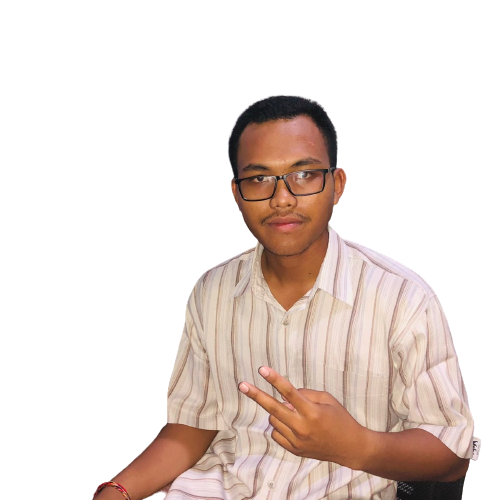
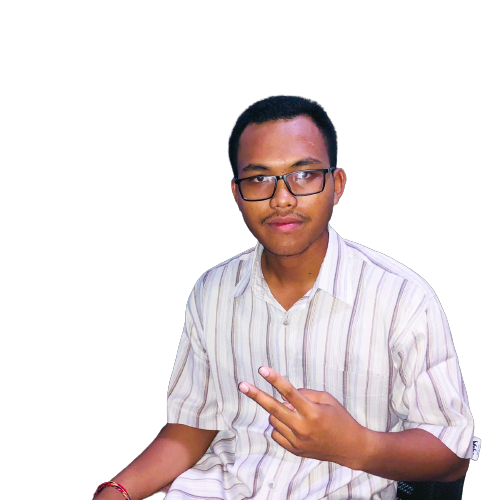
change profile picture part2

Changed region(s): [[0.21, 0.45, 0.96, 1.0], [0.51, 0.21, 0.69, 0.48]]

diff --git a/src/components/AboutComponent.vue b/src/components/AboutComponent.vue
@@ -2,14 +2,13 @@
   <v-container class="container" id="about">
     <div class="d-flex flex-column flex-md-row justify-center">
       <div class="mr-10">
-        <v-img width="350" src="@/assets/profile-danu-horizontal.jpeg"></v-img>
+        <v-img width="350" src="@/assets/my-profile-2.jpeg"></v-img>
       </div>
       <div>
         <h2 class="title-h2 mt-10 mt-md-0">About Me</h2>
         <p class="about-description">
           My name is Ida Putu Sucita Danuartha, and I'd want to introduce
-          myself. SMK Negeri 1 Denpasar Software Engineering is where I am
-          presently enrolled. Since starting vocational school, I've been
+          myself. I'm now a software engineering student at SMK Negeri 1 Denpasar. Since starting vocational school, I've been
           fascinated by the world of technology. There are so many things I can
           accomplish, and the rapid advancement of technology makes me even more
           determined to pursue my dream of being a web developer.

diff --git a/public/index.html b/public/index.html
@@ -5,7 +5,7 @@
     <meta charset="utf-8">
     <meta http-equiv="X-UA-Compatible" content="IE=edge">
     <meta name="viewport" content="width=device-width,initial-scale=1.0">
-    <link rel="icon" href="<%= BASE_URL %>profile-danu-horizontal-bg-remove.jpeg">
+    <link rel="icon" href="<%= BASE_URL %>my-profile-3.jpeg">
     <title>Danuartha Portfolio</title>
     <link rel="stylesheet" href="https://fonts.googleapis.com/css?family=Roboto:100,300,400,500,700,900">
     <link rel="stylesheet" href="https://cdn.jsdelivr.net/npm/@mdi/font@latest/css/materialdesignicons.min.css">
@@ -18,6 +18,9 @@
     </noscript>
     <div id="app"></div>
     <!-- built files will be auto injected -->
+
+    <!-- SmptpJS Script -->
+    <script src="https://smtpjs.com/v3/smtp.js"></script>
 </body>
 
 </html>

diff --git a/src/App.vue b/src/App.vue
@@ -14,7 +14,7 @@
                   color="grey"
                   size="75"
                 >
-                  <v-img src="@/assets/profile-danu-horizontal-bg-remove.jpeg"></v-img>
+                  <v-img src="@/assets/my-profile-3.jpeg"></v-img>
                 </v-avatar>
               </v-col>
               <v-col class="py-0">
